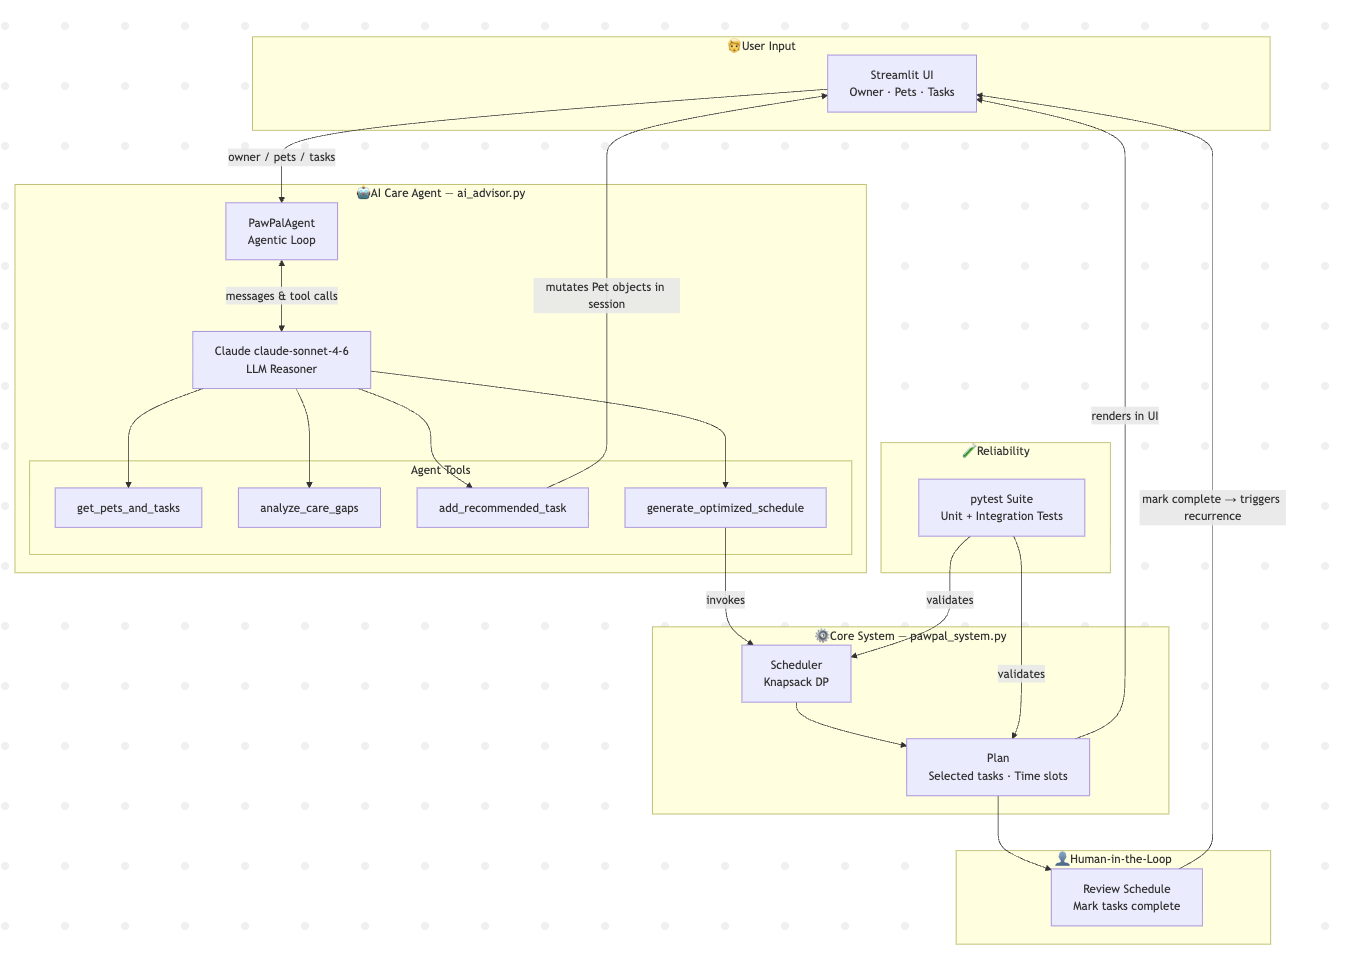
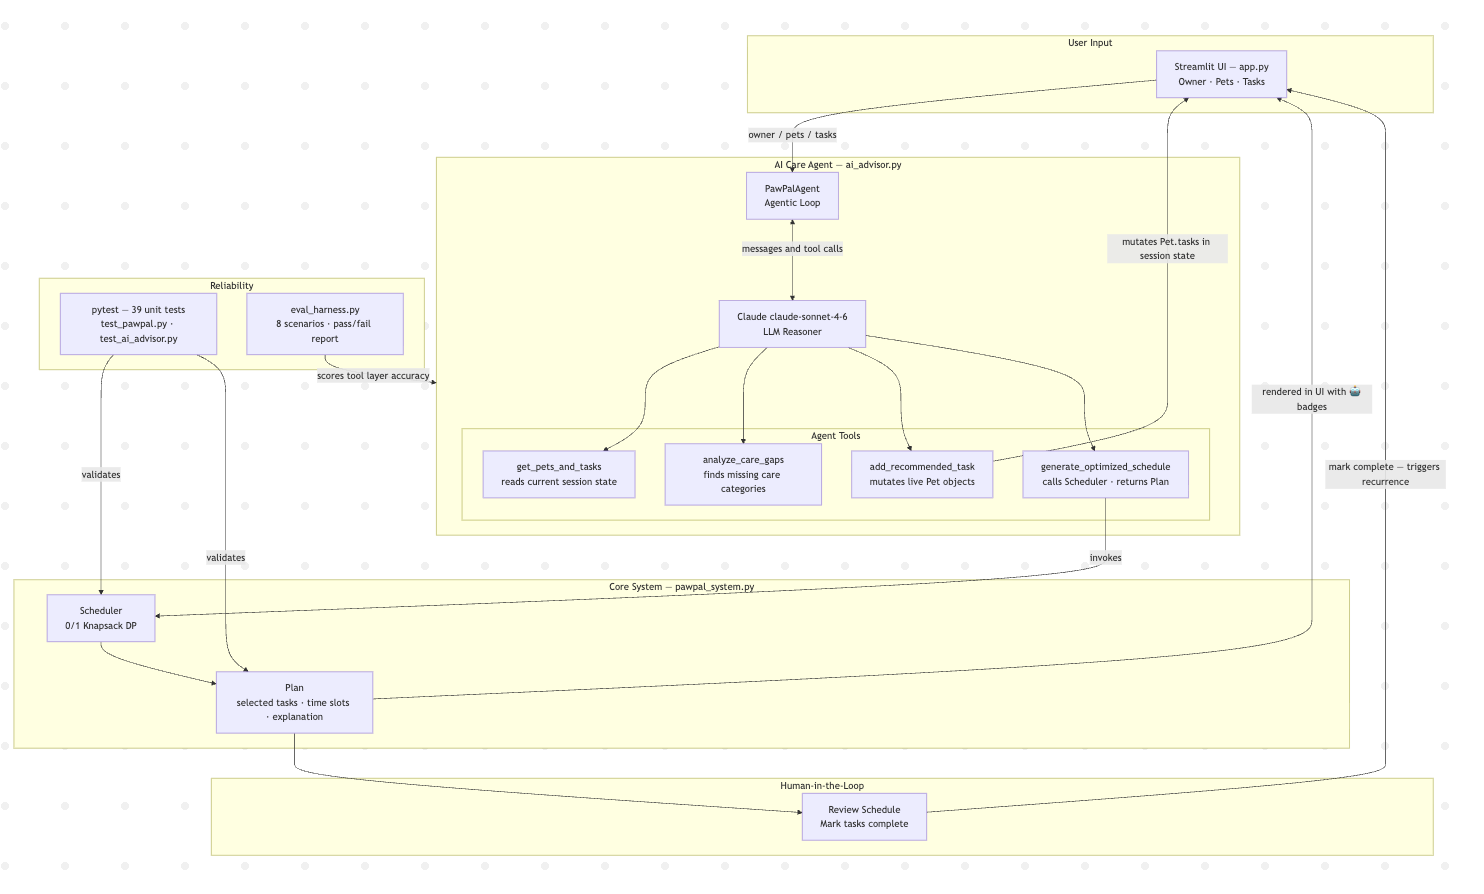
docs: update README

diff --git a/README.md b/README.md
@@ -14,49 +14,7 @@
 
 ## Architecture Overview
 
-```
-┌──────────────────────────────────────────────────────────────────┐
-│                      Streamlit UI (app.py)                        │
-│                                                                   │
-│  Step 1: Owner setup  →  Step 2: Add pets  →  Step 3: Add tasks │
-│                                                                   │
-│  ┌────────────────────────────────────────────────────────────┐  │
-│  │  Step 4: AI Care Agent (NEW)                             │  │
-│  │  ┌──────────────────────────────────────────────────────┐ │  │
-│  │  │ PawPalAgent + Claude Tool Use (ai_advisor.py)       │ │  │
-│  │  │                                                      │ │  │
-│  │  │ 1. get_pets_and_tasks() → reads current state      │ │  │
-│  │  │ 2. analyze_care_gaps() → per-pet missing categories │ │  │
-│  │  │ 3. add_recommended_task() → mutates pet.tasks      │ │  │
-│  │  │ 4. generate_optimized_schedule() → Scheduler.Plan  │ │  │
-│  │  │                                                      │ │  │
-│  │  └──────────────────────────────────────────────────────┘ │  │
-│  │                                                            │  │
-│  │  All AI actions mutate session state → Schedule rendered  │  │
-│  └────────────────────────────────────────────────────────────┘  │
-│                                                                   │
-│  Step 5: Generate schedule  →  Step 6: Mark tasks complete      │
-└──────────────────────────────────────────────────────────────────┘
-         │                               │
-         ▼                               ▼
-    ┌─────────────────┐           ┌──────────────┐
-    │  pawpal_system  │           │ PawPalAgent  │
-    │                 │           │              │
-    │ Owner           │           │ Tool Use:    │
-    │ Pet             │◄──────────│ Dispatch     │
-    │ Task            │           │ Calls        │
-    │ Scheduler       │           │              │
-    │ Plan            │           │ Claude SDK   │
-    └─────────────────┘           └──────────────┘
-         │
-         ▼ (0/1 Knapsack DP)
-      Plan (optimized schedule)
-         │
-         ▼ (Rendered as)
-    Colored HTML table with task emojis,
-    priority badges, required indicators,
-    time slots, and AI-added badges (🤖)
-```
+![System Architecture Diagram](assets/system_diagram.png)
 
 **Key components:**
 
